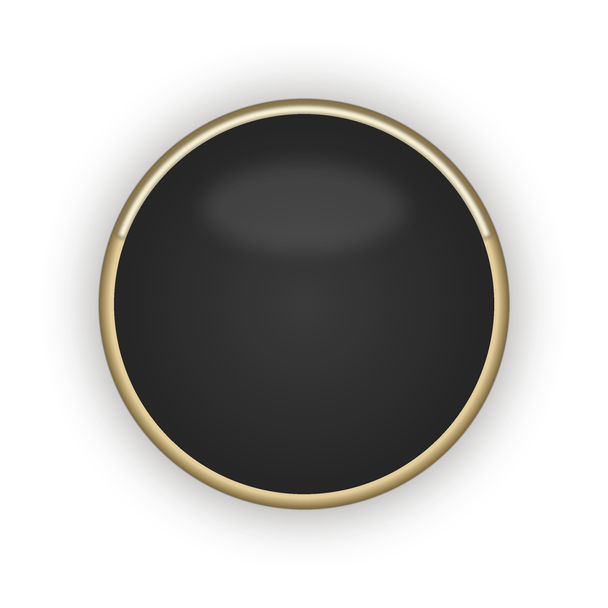
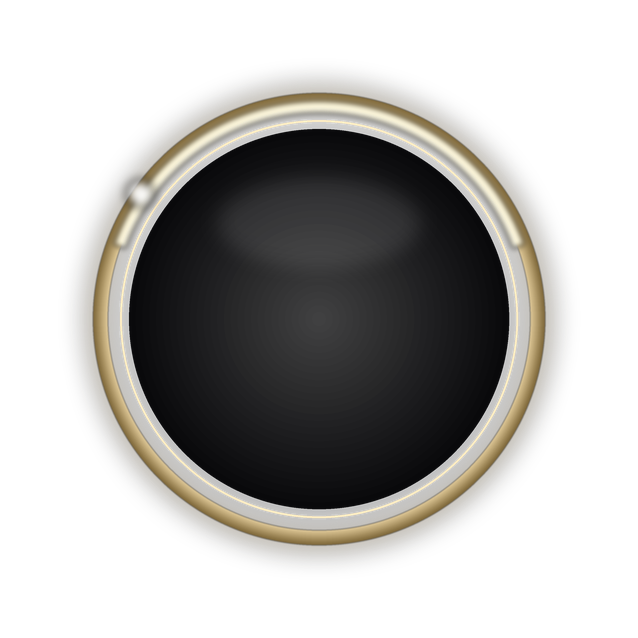
Mockup v8: cores cheias/saturadas + bisel duplo de verdade nas bolinhas
Correção pedida com referências em zoom: preto/vermelho/verde agora são
cores CHEIAS (não mais diluídas em cinza), com o mesmo bisel dourado
grosso do círculo principal aplicado também aos chips do histórico
(antes eram um anel fino na própria cor do chip).

Bug real encontrado e corrigido em make_result_badge(): o anel duplo
("vão + anel fino + vão + bisel grosso") não aparecia porque o loop que
desenha o bisel via círculos concêntricos (`ImageDraw.ellipse(fill=...)`)
preenche o DISCO INTEIRO até aquele raio, não só um anel -- o menor
círculo do loop (raio = borda interna do bisel) deixava um disco dourado
sólido colado direto no preenchimento, escondendo o vão e o anel fino.
Corrigido perfurando o miolo (`fill=(0,0,0,0)`, que sobrescreve pixels
sem blending) depois do gradiente. Halo externo reposicionado pra fora
do bisel (antes vazava pra dentro do vão por causa de um blur grande
demais). Numeral do círculo principal bem maior (~76% do diâmetro).

Assets ainda só Pillow, gerados em build, cacheados e reutilizados via
blit em runtime.

Changed region(s): [[0.125, 0.125, 0.875, 0.875]]

diff --git a/tools/build_ui_assets.py b/tools/build_ui_assets.py
@@ -111,12 +111,14 @@ def make_flame_icon(dark, bright, core, size=64) -> Image.Image:
 
 # -- círculo do último resultado / chips do histórico ----------------------------------------
 
-def make_result_badge(diameter, fill, ring_tone, accent, shadow_alpha=110, gold_halo=False) -> Image.Image:
-    """Composição completa: sombra suave -> halo dourado (opcional, só no círculo grande) -> anel
-    de accent -> anel escuro -> preenchimento com leve gradiente radial -> highlight superior
-    discreto. Usada tanto pro círculo grande do último resultado quanto (num diâmetro menor) pros
-    chips do histórico -- mesma função, só o tamanho/`gold_halo` muda."""
-    pad = int(diameter * (0.30 if gold_halo else 0.16))
+def make_result_badge(diameter, fill, ring_tone, accent, shadow_alpha=110, gold_halo=False,
+                       double_ring=False) -> Image.Image:
+    """Composição completa: sombra suave -> halo dourado (opcional) -> bisel dourado grosso ->
+    preenchimento com leve gradiente radial (cor CHEIA/saturada, sem diluir em cinza) -> highlight
+    superior discreto. Usada tanto pro círculo grande do último resultado (`gold_halo=True,
+    double_ring=True`) quanto pros chips do histórico (`gold_halo=True`, sem o segundo anel/brilho,
+    que é sutil demais pra fazer sentido num círculo pequeno)."""
+    pad = int(diameter * (0.34 if double_ring else 0.30 if gold_halo else 0.16))
     canvas = diameter + pad * 2
     img = Image.new("RGBA", (canvas * SS, canvas * SS), (0, 0, 0, 0))
     cx = cy = canvas * SS / 2
@@ -133,19 +135,32 @@ def make_result_badge(diameter, fill, ring_tone, accent, shadow_alpha=110, gold_
     # borrado bastante, pra criar o "glow" quente ao redor do círculo que a referência usa. Ainda
     # é só um blur no BUILD, nunca em runtime.
     if gold_halo:
+        # Posicionado JUNTO DA BORDA EXTERNA do bisel (não mais perto do preenchimento) e com
+        # blur bem menor -- um halo desfocado demais "engolia" o vão entre o preenchimento e o
+        # bisel e escondia o anel fino duplo (bug encontrado nesta rodada: o glow tinha blur
+        # ~23px finais, maior que o próprio vão de ~9px, vazando pra dentro dele).
         halo = Image.new("RGBA", img.size, (0, 0, 0, 0))
-        halo_r = r + SS * 18
+        halo_r = r + SS * 38
         ImageDraw.Draw(halo).ellipse([cx - halo_r, cy - halo_r, cx + halo_r, cy + halo_r],
-                                      outline=(*accent, 210), width=int(SS * 10))
-        halo = halo.filter(ImageFilter.GaussianBlur(radius=diameter * 0.06 * SS))
+                                      outline=(*accent, 190), width=int(SS * 14))
+        halo = halo.filter(ImageFilter.GaussianBlur(radius=diameter * 0.035 * SS))
         img.alpha_composite(halo)
 
     # 2. bezel dourado GROSSO (não uma linha fina) -- anel metálico com gradiente radial (mais
     # escuro na borda externa, mais claro perto do círculo) + um arco de brilho na metade
-    # superior simulando luz vinda de cima, igual a um bisel de moeda/medalha física.
+    # superior simulando luz vinda de cima, igual a um bisel de moeda/medalha física. Deixa um
+    # vão (sem pintar nada) entre o preenchimento (raio `r`) e o bisel -- é esse vão escuro que
+    # cria a separação visual "círculo preto real" -> "anel dourado", em vez de um anel colado.
+    # Vão 1: espaço em branco (transparente) logo depois do preenchimento -- é o que separa
+    # visualmente "círculo preto real" do anel dourado, em vez dos dois ficarem colados.
+    ring1_r = r + SS * 9
+    ring1_w = SS * 2
+    # Vão 2: outro espaço em branco antes do bisel grosso começar -- sem isso, a borda mais clara
+    # do próprio gradiente do bisel (que já começa dourado bem claro) fica colada no anel fino e
+    # os dois se misturam visualmente num anel só.
+    bezel_inner = ring1_r + ring1_w + SS * 10
     if gold_halo:
-        bezel_outer = r + SS * 15
-        bezel_inner = r + SS * 4
+        bezel_outer = bezel_inner + SS * 15
         band = Image.new("RGBA", img.size, (0, 0, 0, 0))
         bd = ImageDraw.Draw(band)
         gold_dark = _lerp(accent, (40, 30, 10), 0.45)
@@ -156,6 +171,12 @@ def make_result_badge(diameter, fill, ring_tone, accent, shadow_alpha=110, gold_
             rr = bezel_inner + (bezel_outer - bezel_inner) * t
             color = _lerp(gold_light, gold_dark, t)
             bd.ellipse([cx - rr, cy - rr, cx + rr, cy + rr], fill=(*color, 255))
+        # `ellipse(fill=...)` sempre preenche o disco INTEIRO até aquele raio -- sem isso, o menor
+        # círculo do loop (raio `bezel_inner`) deixava um disco dourado sólido colado no
+        # preenchimento em vez de um anel oco, escondendo o vão/anel duplo (bug real encontrado
+        # nesta rodada). `fill=(0,0,0,0)` sobrescreve os pixels direto (sem blending), então isso
+        # apaga de verdade o miolo em vez de só desenhar transparência por cima.
+        bd.ellipse([cx - bezel_inner, cy - bezel_inner, cx + bezel_inner, cy + bezel_inner], fill=(0, 0, 0, 0))
         # brilho superior (luz vinda de cima) -- arco largo e claro, só no terço de cima do bisel
         bezel_mid = (bezel_outer + bezel_inner) / 2
         bw = bezel_outer - bezel_inner
@@ -168,23 +189,44 @@ def make_result_badge(diameter, fill, ring_tone, accent, shadow_alpha=110, gold_
         # disco "cortado a laser" -- blur bem pequeno, é só antialiasing extra.
         band = band.filter(ImageFilter.GaussianBlur(radius=SS * 0.6))
         img.alpha_composite(band)
+
+        # 2.5 segundo anel, fino e brilhante, concêntrico, DENTRO do vão -- só no círculo
+        # principal (chips pequenos não têm espaço/necessidade pra um anel duplo). Um pequeno
+        # brilho pontual ("glint") simula reflexo de luz numa superfície polida.
+        if double_ring:
+            ImageDraw.Draw(img).ellipse(
+                [cx - ring1_r, cy - ring1_r, cx + ring1_r, cy + ring1_r],
+                outline=(255, 235, 190, 235), width=ring1_w)
+
+            glint = Image.new("RGBA", img.size, (0, 0, 0, 0))
+            glint_r = bezel_mid
+            glint_angle = math.radians(215)
+            gx = cx + math.cos(glint_angle) * glint_r
+            gy = cy + math.sin(glint_angle) * glint_r
+            gs = bw * 0.9
+            ImageDraw.Draw(glint).ellipse([gx - gs, gy - gs, gx + gs, gy + gs], fill=(255, 255, 255, 235))
+            glint = glint.filter(ImageFilter.GaussianBlur(radius=gs * 0.35))
+            img.alpha_composite(glint)
     else:
         ring_r = r + SS * 5
         ImageDraw.Draw(img).ellipse([cx - ring_r, cy - ring_r, cx + ring_r, cy + ring_r],
                                      outline=(*accent, 130), width=max(1, SS))
+        # anel escuro fino -- só usado nessa variante simples (sem bisel dourado)
+        ImageDraw.Draw(img).ellipse([cx - r, cy - r, cx + r, cy + r], outline=(*ring_tone, 255), width=SS * 2)
 
-    # 3. anel escuro fino
-    ImageDraw.Draw(img).ellipse([cx - r, cy - r, cx + r, cy + r], outline=(*ring_tone, 255), width=SS * 2)
-
-    # 4. preenchimento com gradiente radial sutil (centro pouco mais claro que a borda)
-    center_tone = _lerp(fill, (255, 255, 255), 0.10)
+    # 4. preenchimento com gradiente radial (centro mais claro, borda mais escura) -- cor CHEIA,
+    # saturada (a referência usa preto/vermelho/verde de verdade, não uma versão diluída/cinza);
+    # o contraste contra o fundo escuro do app vem do bisel dourado, não mais de clarear o
+    # preenchimento como a v1-v7 faziam pro "preto".
+    center_tone = _lerp(fill, (255, 255, 255), 0.22)
+    edge_tone = _lerp(fill, (0, 0, 0), 0.30)
     fill_img = Image.new("RGBA", img.size, (0, 0, 0, 0))
     fd = ImageDraw.Draw(fill_img)
-    steps = 24
+    steps = 28
     for i in range(steps, 0, -1):
         t = i / steps
         rr = r * t
-        color = _lerp(fill, center_tone, 1 - t)
+        color = _lerp(edge_tone, center_tone, 1 - t)
         fd.ellipse([cx - rr, cy - rr, cx + rr, cy + rr], fill=(*color, 255))
     img.alpha_composite(fill_img)
 
@@ -291,9 +333,10 @@ def main() -> None:
     OUT_DIR.mkdir(parents=True, exist_ok=True)
 
     BLUE = (0x00, 0xA8, 0xFF)
-    RED = (0xFF, 0x39, 0x39)
-    GREEN = (0x00, 0xD8, 0x75)
-    GRAY_85 = (38, 38, 38)
+    RED = (0xE8, 0x1B, 0x1B)
+    GREEN = (0x0C, 0x8A, 0x40)
+    TRUE_BLACK = (14, 14, 16)  # preto de verdade -- o bisel dourado (não mais o tom do
+    # preenchimento) é quem garante contraste contra o fundo escuro do app agora.
     GOLD = (196, 160, 92)
     GOLD_DARK = (90, 74, 44)
     RED_DARK = (90, 20, 18)
@@ -306,13 +349,13 @@ def main() -> None:
     make_snowflake_icon(BLUE, size=64).save(OUT_DIR / "cold_icon.png")
     make_flame_icon((160, 25, 10), (255, 140, 30), core=(255, 110, 20), size=64).save(OUT_DIR / "hot_icon.png")
 
-    make_result_badge(380, fill=RED, ring_tone=(255, 130, 122), accent=GOLD, gold_halo=True).save(OUT_DIR / "result_badge_red.png")
-    make_result_badge(380, fill=GRAY_85, ring_tone=(120, 122, 128), accent=GOLD, gold_halo=True).save(OUT_DIR / "result_badge_black.png")
-    make_result_badge(380, fill=GREEN, ring_tone=(90, 235, 160), accent=GOLD, gold_halo=True).save(OUT_DIR / "result_badge_green.png")
+    make_result_badge(380, fill=RED, ring_tone=RED, accent=GOLD, gold_halo=True, double_ring=True).save(OUT_DIR / "result_badge_red.png")
+    make_result_badge(380, fill=TRUE_BLACK, ring_tone=TRUE_BLACK, accent=GOLD, gold_halo=True, double_ring=True).save(OUT_DIR / "result_badge_black.png")
+    make_result_badge(380, fill=GREEN, ring_tone=GREEN, accent=GOLD, gold_halo=True, double_ring=True).save(OUT_DIR / "result_badge_green.png")
 
-    make_result_badge(72, fill=RED, ring_tone=(170, 50, 46), accent=(170, 50, 46), shadow_alpha=70).save(OUT_DIR / "history_chip_red.png")
-    make_result_badge(72, fill=GRAY_85, ring_tone=(110, 112, 116), accent=(110, 112, 116), shadow_alpha=70).save(OUT_DIR / "history_chip_black.png")
-    make_result_badge(72, fill=GREEN, ring_tone=(20, 130, 80), accent=(20, 130, 80), shadow_alpha=70).save(OUT_DIR / "history_chip_green.png")
+    make_result_badge(96, fill=RED, ring_tone=RED, accent=GOLD, gold_halo=True, shadow_alpha=90).save(OUT_DIR / "history_chip_red.png")
+    make_result_badge(96, fill=TRUE_BLACK, ring_tone=TRUE_BLACK, accent=GOLD, gold_halo=True, shadow_alpha=90).save(OUT_DIR / "history_chip_black.png")
+    make_result_badge(96, fill=GREEN, ring_tone=GREEN, accent=GOLD, gold_halo=True, shadow_alpha=90).save(OUT_DIR / "history_chip_green.png")
 
     make_accent_bar(420, 6, BLUE_DARK, BLUE_BRIGHT).save(OUT_DIR / "accent_cold.png")
     make_accent_bar(420, 6, RED_DARK, RED_BRIGHT).save(OUT_DIR / "accent_hot.png")

diff --git a/tools/mockup_ui.py b/tools/mockup_ui.py
@@ -273,7 +273,7 @@ def draw_center(screen, theme: Theme, content_rect: pygame.Rect,
     cx, cy = content_rect.centerx, y + diameter // 2
     screen.blit(badge, (cx - badge_size // 2, cy - badge_size // 2))
 
-    num_font = theme.font(int(diameter * 0.58), True)
+    num_font = theme.font(int(diameter * 0.76), True)
     blit_outlined(screen, num_font, str(last_number), (cx, cy), fill=OFF_WHITE, outline=(0, 0, 0), outline_px=0)
 
     tag_y = cy + diameter // 2 + theme.px(26)
